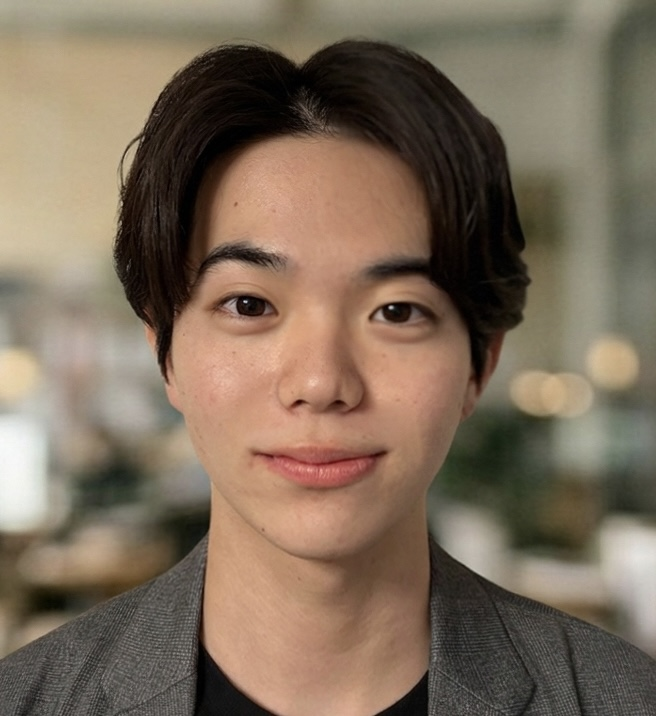
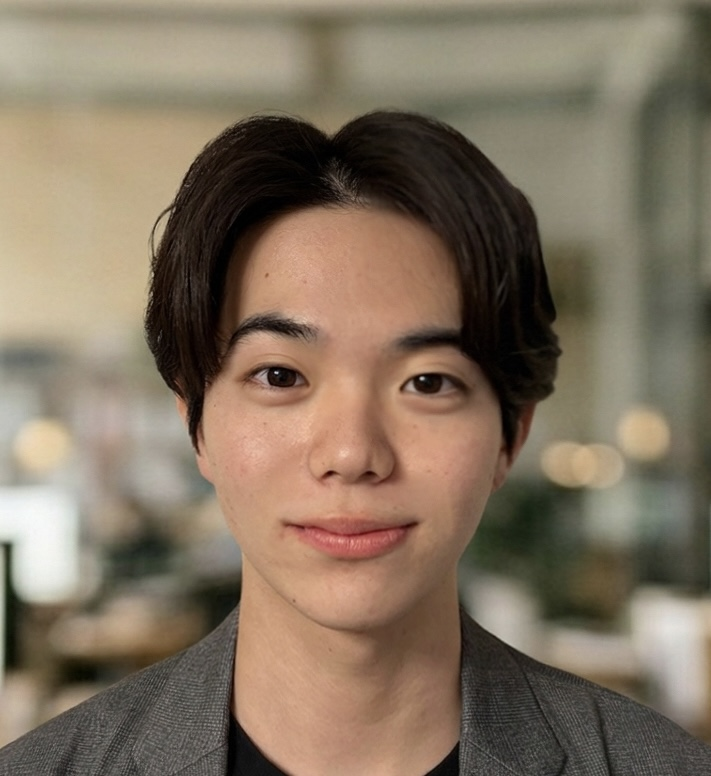
井上蓮・太田賢介のアイコンを差し替え

diff --git a/src/components/sections/Member.tsx b/src/components/sections/Member.tsx
@@ -7,7 +7,7 @@ const members = [
     name: "井上 蓮",
     role: "CEO",
     desc: `小学6年時にSNSアフィリエイトで初めてのマネタイズに成功。中学時代にはせどり・物販事業を展開し、高校2年時にはAI×Web制作事業で法人を設立。個人から中小企業まで幅広いクライアントのWeb制作を手がける。高校卒業と同時に上京し、「ホームページは今後AIに取って代わられる」という確信のもと、SNSにおける人間の表現力に着目し新たな事業を構想。その中で、一緒に事業をできる仲間を求めて全国を飛び回っていたCOO太田賢介と出会い、理念で意気投合しフォロミーを設立。CEOとしてビジネスモデルの設計からマーケティング・デザイン・営業まで全領域を統括する。`,
-    image: "/images/members/inoue_ren_icon3.webp",
+    image: "/images/members/inoue_ren_icon4.webp",
     cover: "/images/members/inoue_ren_cover4.webp",
     avatarScale: 1, avatarPos: "center",
   },
@@ -15,7 +15,7 @@ const members = [
     name: "太田 健介",
     role: "COO",
     desc: `中国にルーツを持ち、日中バイリンガルとして育つ。海外研修への参加を目的に高校へ進学し、在学中に高卒認定を取得したうえで中退。その後、一緒に事業をできる仲間を求めて全国を飛び回る中でCEO井上蓮と出会い、理念で意気投合しフォロミーを共同で設立。仲間を集めてチームを立ち上げ、COOとして事業企画・戦略立案からタスク設計・実行管理までを一手に担う。日中英トリリンガルの視野と「最短で動き、走りながら考える」突破力を武器に、事業を前に進める。`,
-    image: "/images/members/ota_kensuke_icon3.webp",
+    image: "/images/members/ota_kensuke_icon4.webp",
     cover: "/images/members/ota_kensuke_cover7.webp",
     avatarScale: 1, avatarPos: "center",
   },
